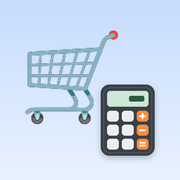
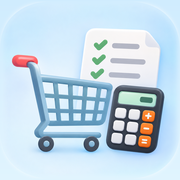
Add files via upload

diff --git a/index.html b/index.html
@@ -6,7 +6,7 @@
 <meta name="theme-color" content="#F6F5F1" media="(prefers-color-scheme: light)">
 <meta name="theme-color" content="#111412" media="(prefers-color-scheme: dark)">
 <meta name="apple-mobile-web-app-capable" content="yes">
-<meta name="apple-mobile-web-app-title" content="장보기">
+<meta name="apple-mobile-web-app-title" content="오늘 장보기">
 <meta name="apple-mobile-web-app-status-bar-style" content="default">
 <meta name="mobile-web-app-capable" content="yes">
 <title>장보기 계산기</title>

diff --git a/sw.js b/sw.js
@@ -1,6 +1,6 @@
 // 장보기 계산기 서비스 워커
 // 앱 파일을 수정해서 다시 올릴 때는 아래 버전 숫자를 하나 올려주세요 (v1 → v2).
-const CACHE = 'jangbogi-v7';
+const CACHE = 'jangbogi-v8';
 const ASSETS = ['./', './index.html', './manifest.json', './icon-192.png', './icon-512.png', './apple-touch-icon.png'];
 
 self.addEventListener('install', (e) => {
